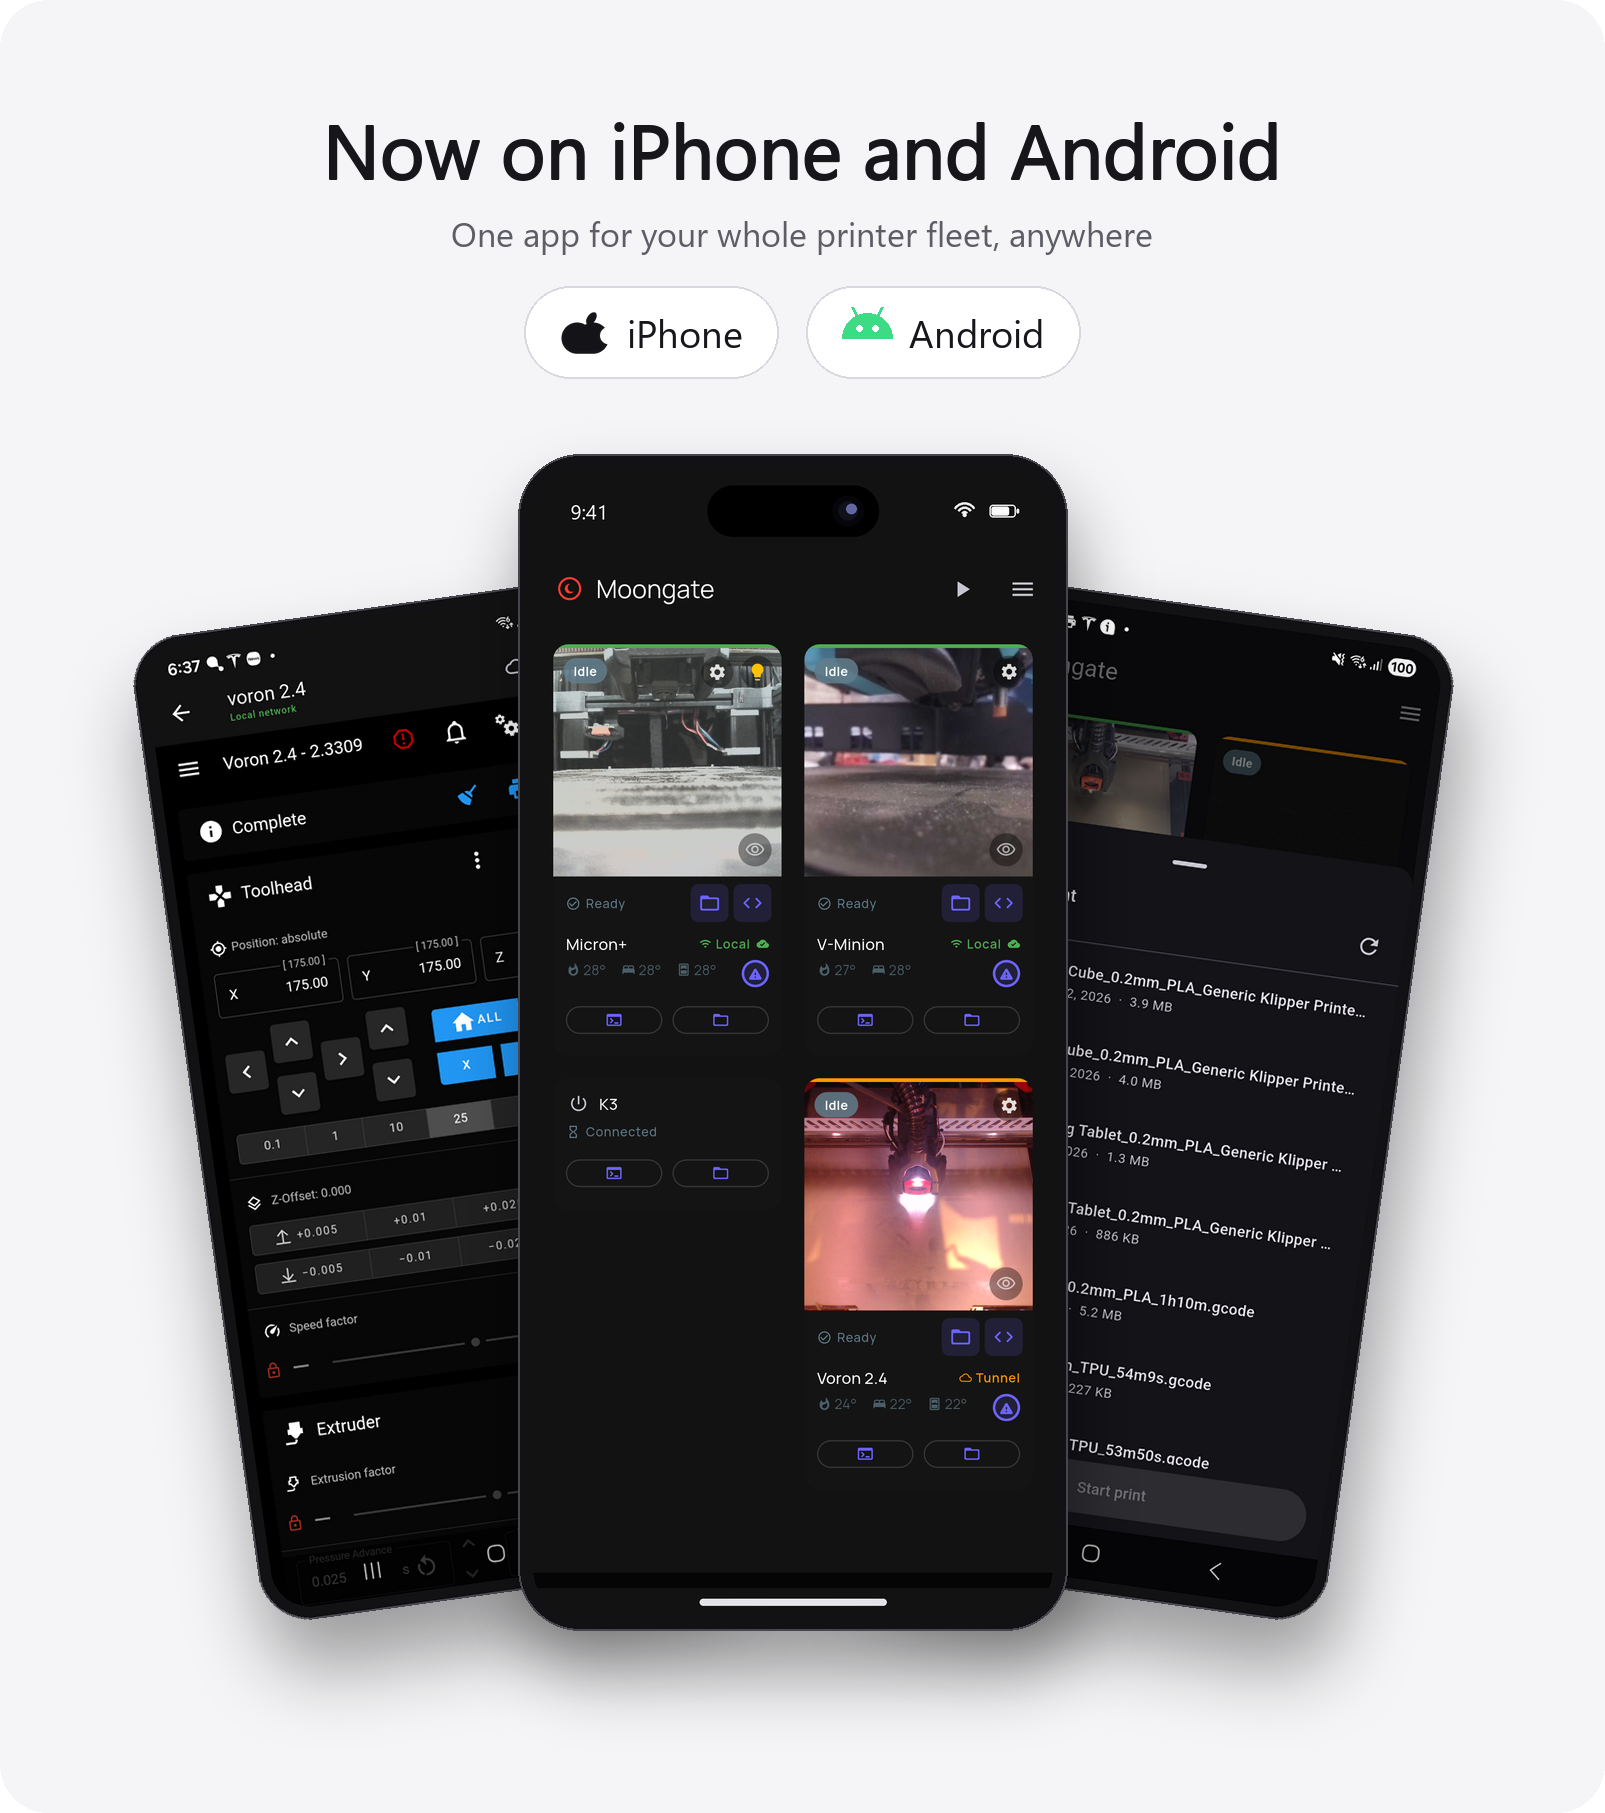
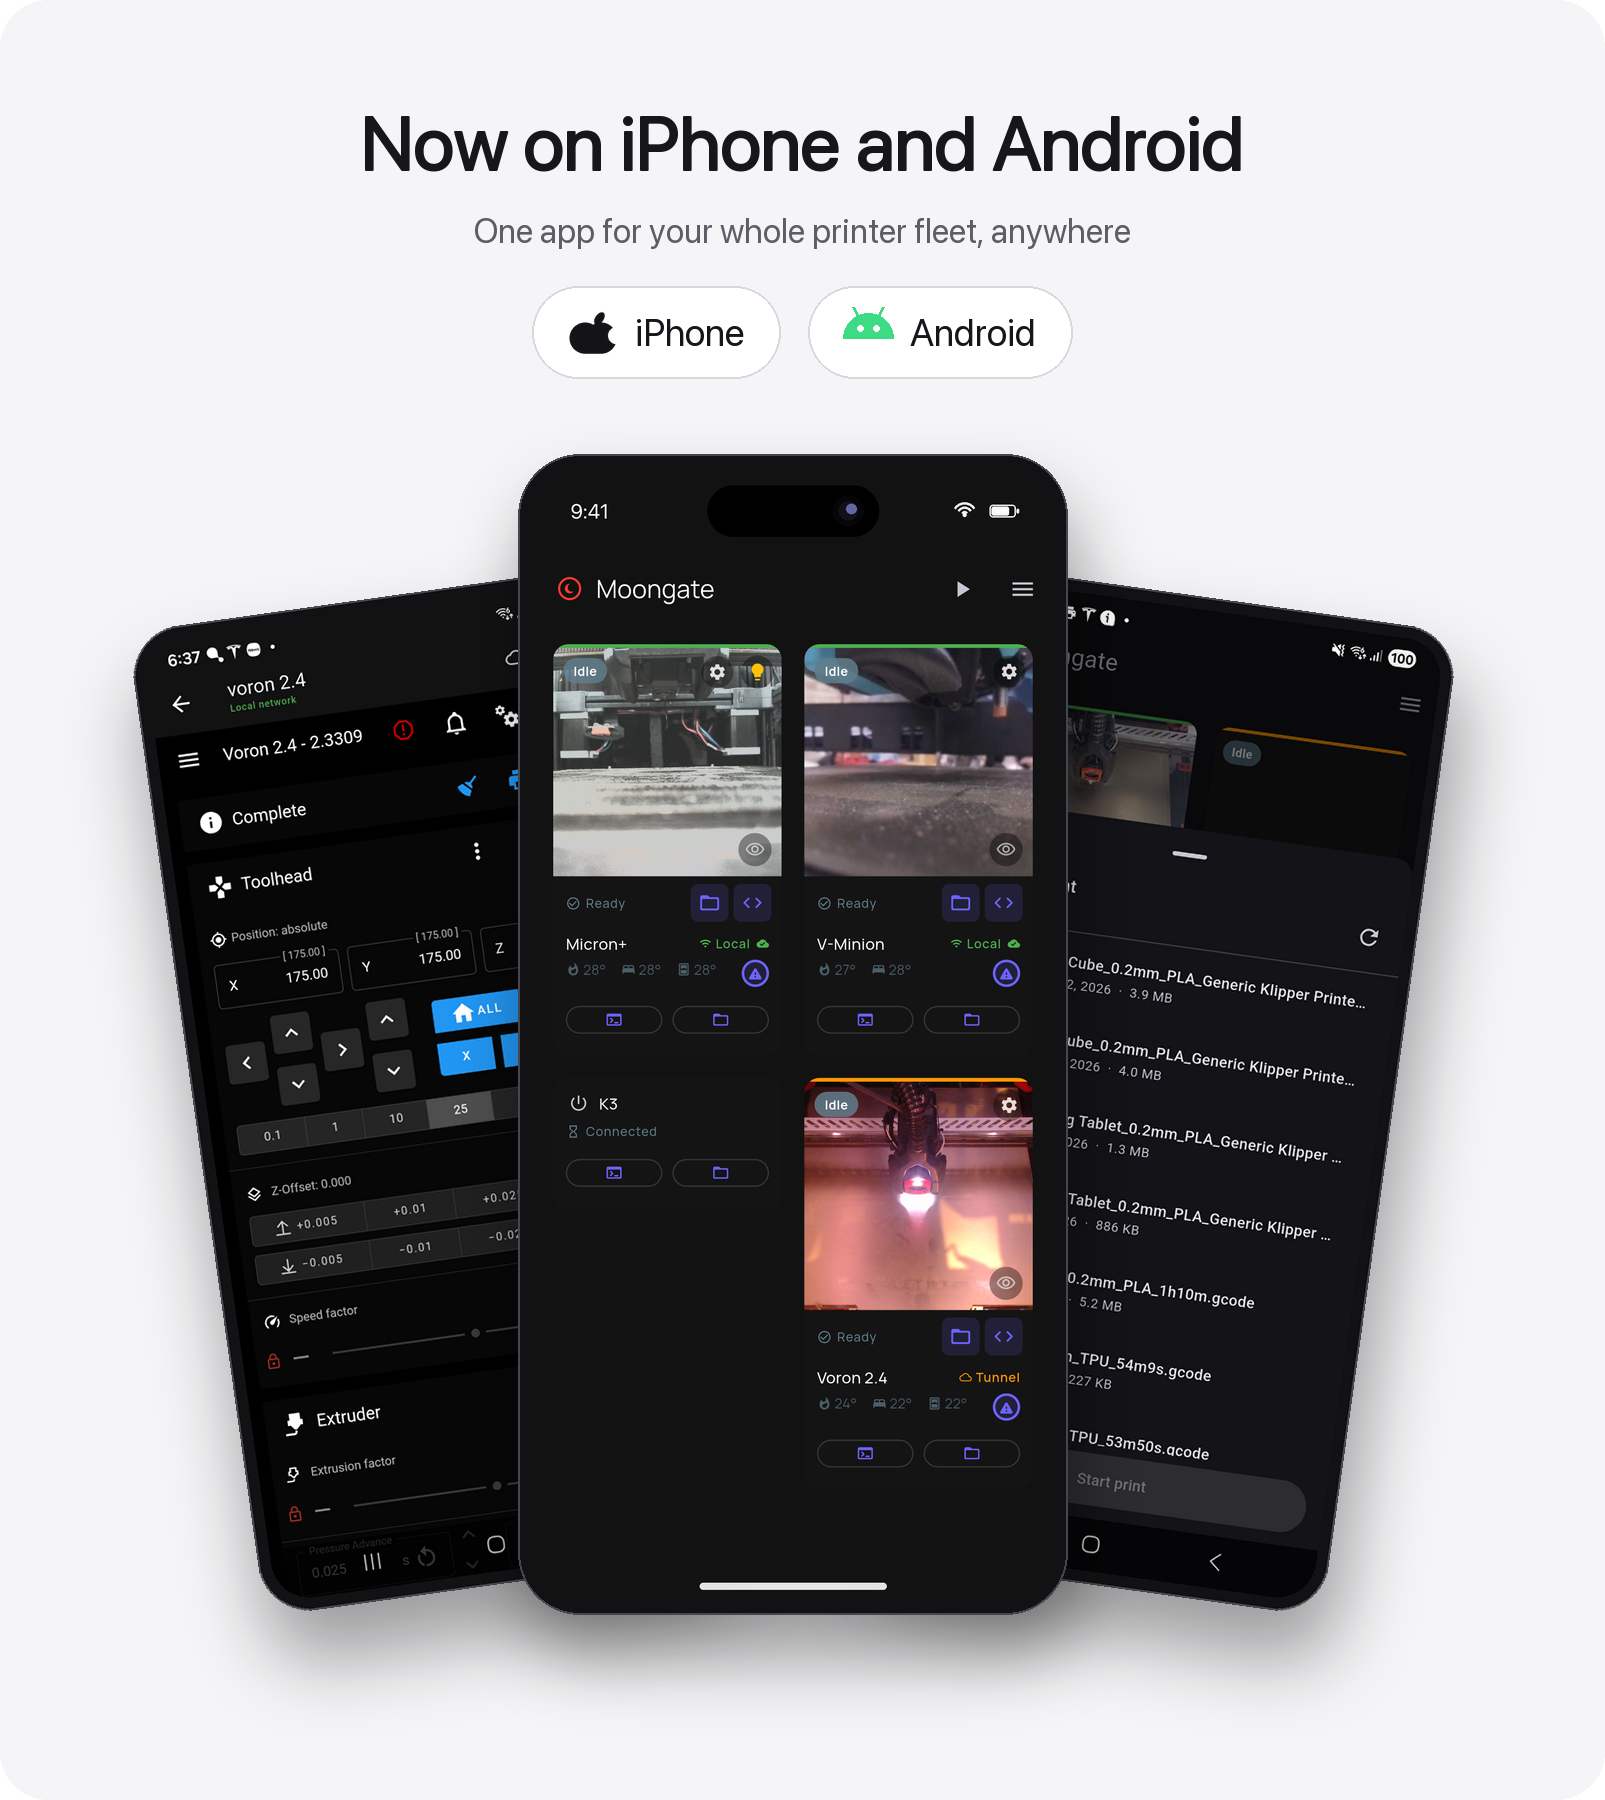
docs: hero composite without the black stripe above the iPhone home indicator (#340) [skip ci]
make_hero_ios.py measures the Android nav bar instead of cutting a fixed 94 px; hero-ios.png regenerated. Same file feeds the README and the website. Docs only.

diff --git a/docs/make_hero_ios.py b/docs/make_hero_ios.py
@@ -74,10 +74,26 @@ def android_head(draw, x, y, s):
         draw.ellipse([cxx - er, cyy - er, cxx + er, cyy + er], fill=(255, 255, 255, 255))
 
 
-def iphone_screen(path, top_cut=72, bot_cut=94):
-    """Crop the Android system bars off a dashboard shot and add iPhone chrome."""
+def nav_bar_height(shot):
+    """Rows from the bottom that are the Android navigation bar: both edge columns
+    stay the bar's own colour (black) until the app's grey background begins."""
+    px = shot.convert("RGB")
+    W, H = px.size
+    bar = px.getpixel((28, H - 1))
+    n = 0
+    while n < H // 4 and px.getpixel((28, H - 1 - n)) == bar and px.getpixel((W - 28, H - 1 - n)) == bar:
+        n += 1
+    return n
+
+
+def iphone_screen(path, top_cut=72, bot_cut=None):
+    """Crop the Android system bars off a dashboard shot and add iPhone chrome.
+    The navigation bar is measured, not guessed: a 3-button bar is taller than a
+    gesture bar, and a fixed cut used to leave a black stripe above the home indicator."""
     shot = Image.open(path).convert("RGBA")
     W, H = shot.size
+    if bot_cut is None:
+        bot_cut = nav_bar_height(shot)
     content = shot.crop((0, top_cut, W, H - bot_cut))
     ch = content.height
     bg = content.getpixel((28, 28))
